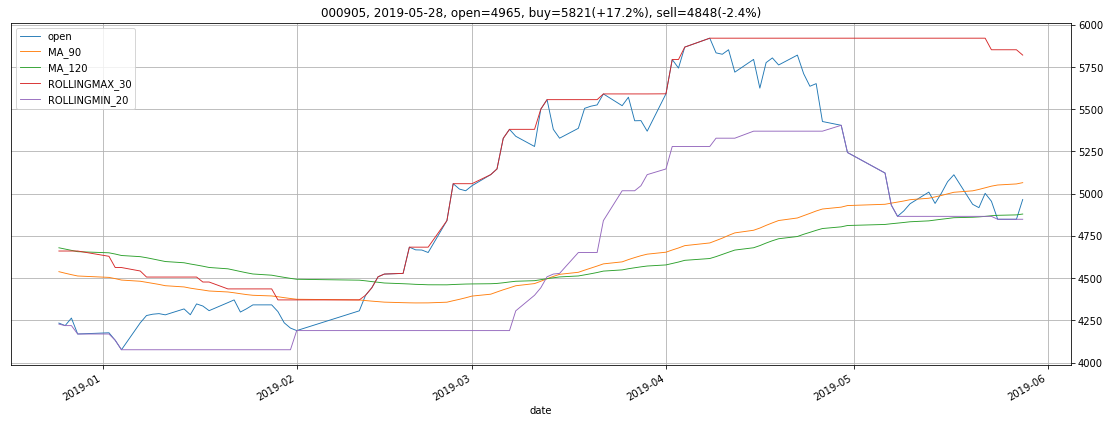
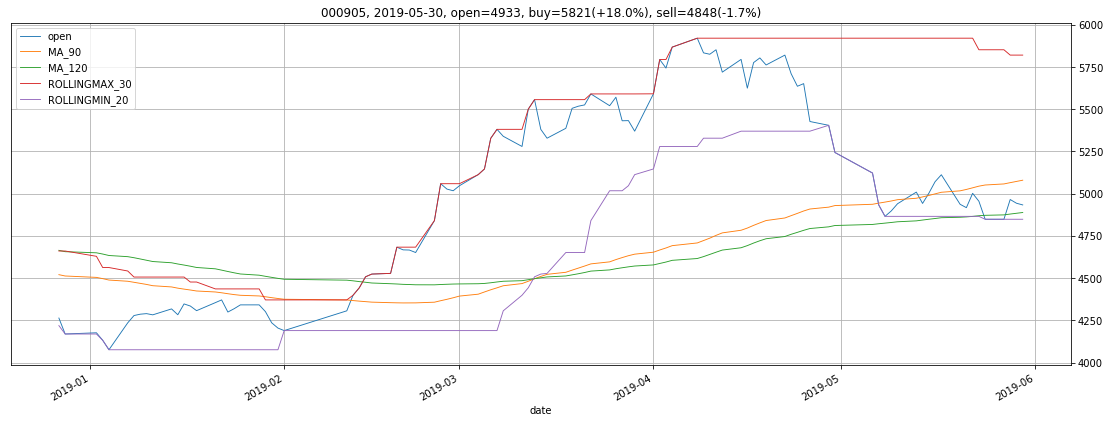
Daily update.

diff --git a/mds.md b/mds.md
@@ -110,52 +110,52 @@ monitor_df
     <tr>
       <th>0</th>
       <td>399300</td>
-      <td>2019-05-28</td>
-      <td>3633.02</td>
+      <td>2019-05-30</td>
+      <td>3648.85</td>
       <td>4125.97</td>
-      <td>+13.57%</td>
+      <td>+13.08%</td>
       <td>3584.90</td>
-      <td>-1.32%</td>
+      <td>-1.75%</td>
     </tr>
     <tr>
       <th>1</th>
       <td>000905</td>
-      <td>2019-05-28</td>
-      <td>4965.59</td>
+      <td>2019-05-30</td>
+      <td>4933.50</td>
       <td>5821.02</td>
-      <td>+17.23%</td>
+      <td>+17.99%</td>
       <td>4848.58</td>
-      <td>-2.36%</td>
+      <td>-1.72%</td>
     </tr>
     <tr>
       <th>2</th>
       <td>399006</td>
-      <td>2019-05-28</td>
-      <td>1497.12</td>
+      <td>2019-05-30</td>
+      <td>1494.35</td>
       <td>1787.96</td>
-      <td>+19.43%</td>
+      <td>+19.65%</td>
       <td>1447.98</td>
-      <td>-3.28%</td>
+      <td>-3.10%</td>
     </tr>
     <tr>
       <th>3</th>
       <td>BITCOIN</td>
-      <td>2019-05-27</td>
-      <td>8674.07</td>
-      <td>8674.07</td>
-      <td>+0.00%</td>
-      <td>7267.96</td>
-      <td>-16.21%</td>
+      <td>2019-05-29</td>
+      <td>8718.59</td>
+      <td>8802.76</td>
+      <td>+0.97%</td>
+      <td>7677.27</td>
+      <td>-11.94%</td>
     </tr>
     <tr>
       <th>4</th>
       <td>EOS</td>
-      <td>2019-05-27</td>
-      <td>6.90</td>
-      <td>6.90</td>
+      <td>2019-05-29</td>
+      <td>8.05</td>
+      <td>8.05</td>
       <td>+0.00%</td>
-      <td>5.89</td>
-      <td>-14.64%</td>
+      <td>5.97</td>
+      <td>-25.84%</td>
     </tr>
   </tbody>
 </table>

diff --git a/strategy/etf_rotation/index.md b/strategy/etf_rotation/index.md
@@ -15,4 +15,23 @@
 
 ETF Rotation（ETF轮动）策略，本质上是一种趋势/动量跟踪策略。
 
-一言以蔽之，牛市追踪强者，熊市退出避险，震荡市被反复打脸。
+牛市追踪强者，熊市退出避险，震荡市被反复打脸。
+
+### 标的
+
+趋势跟踪的关键是长期复利。
+
+A股每几年就来一次疯牛疯熊，长期持有等于坐过山车，而趋势跟踪能吃到倍数复利。
+
+前提是，能长期活下去。
+
+一旦归零，就永无翻身了。
+
+因此轮动策略最好的标的是宽基指数/ETF，即
+
+- 沪深300
+- 中证500
+- 上证50
+- 中证1000
+- 中小板
+- 创业板
